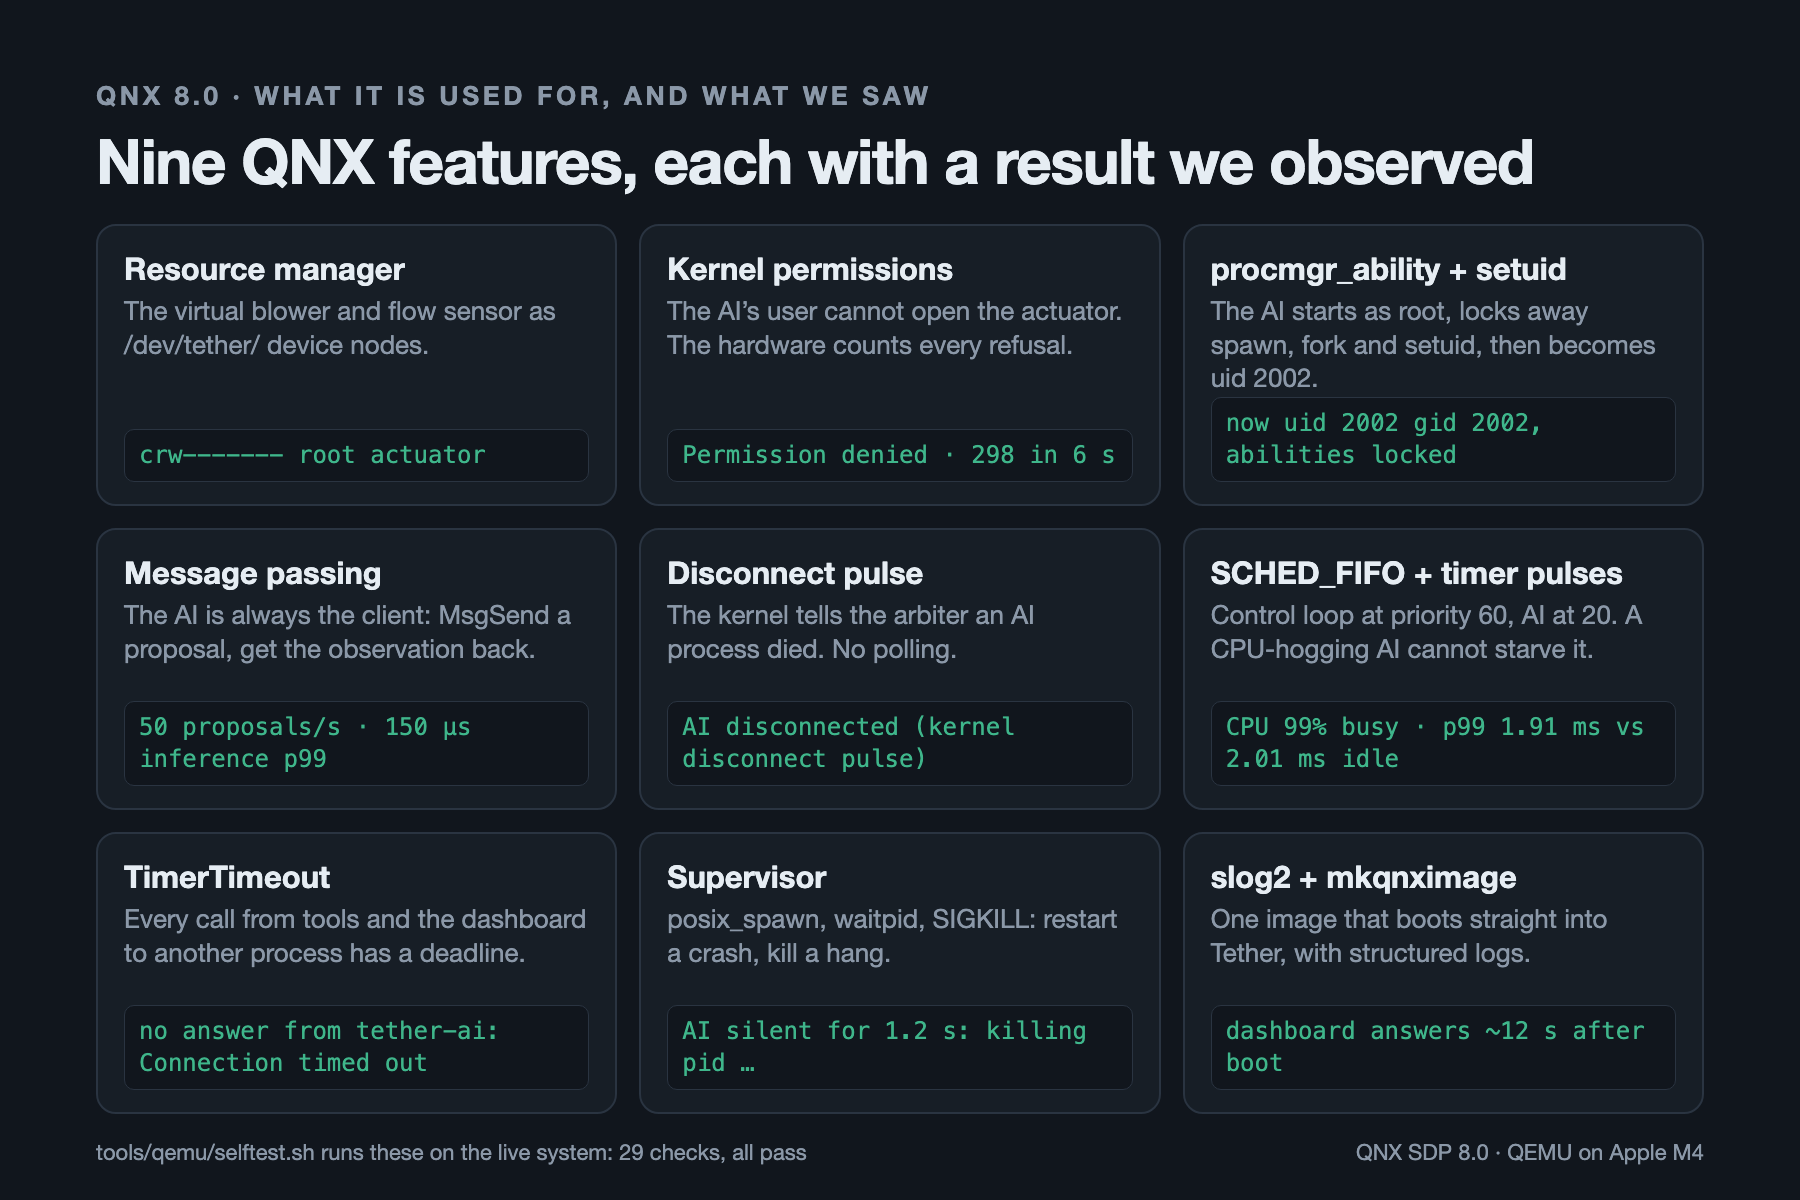
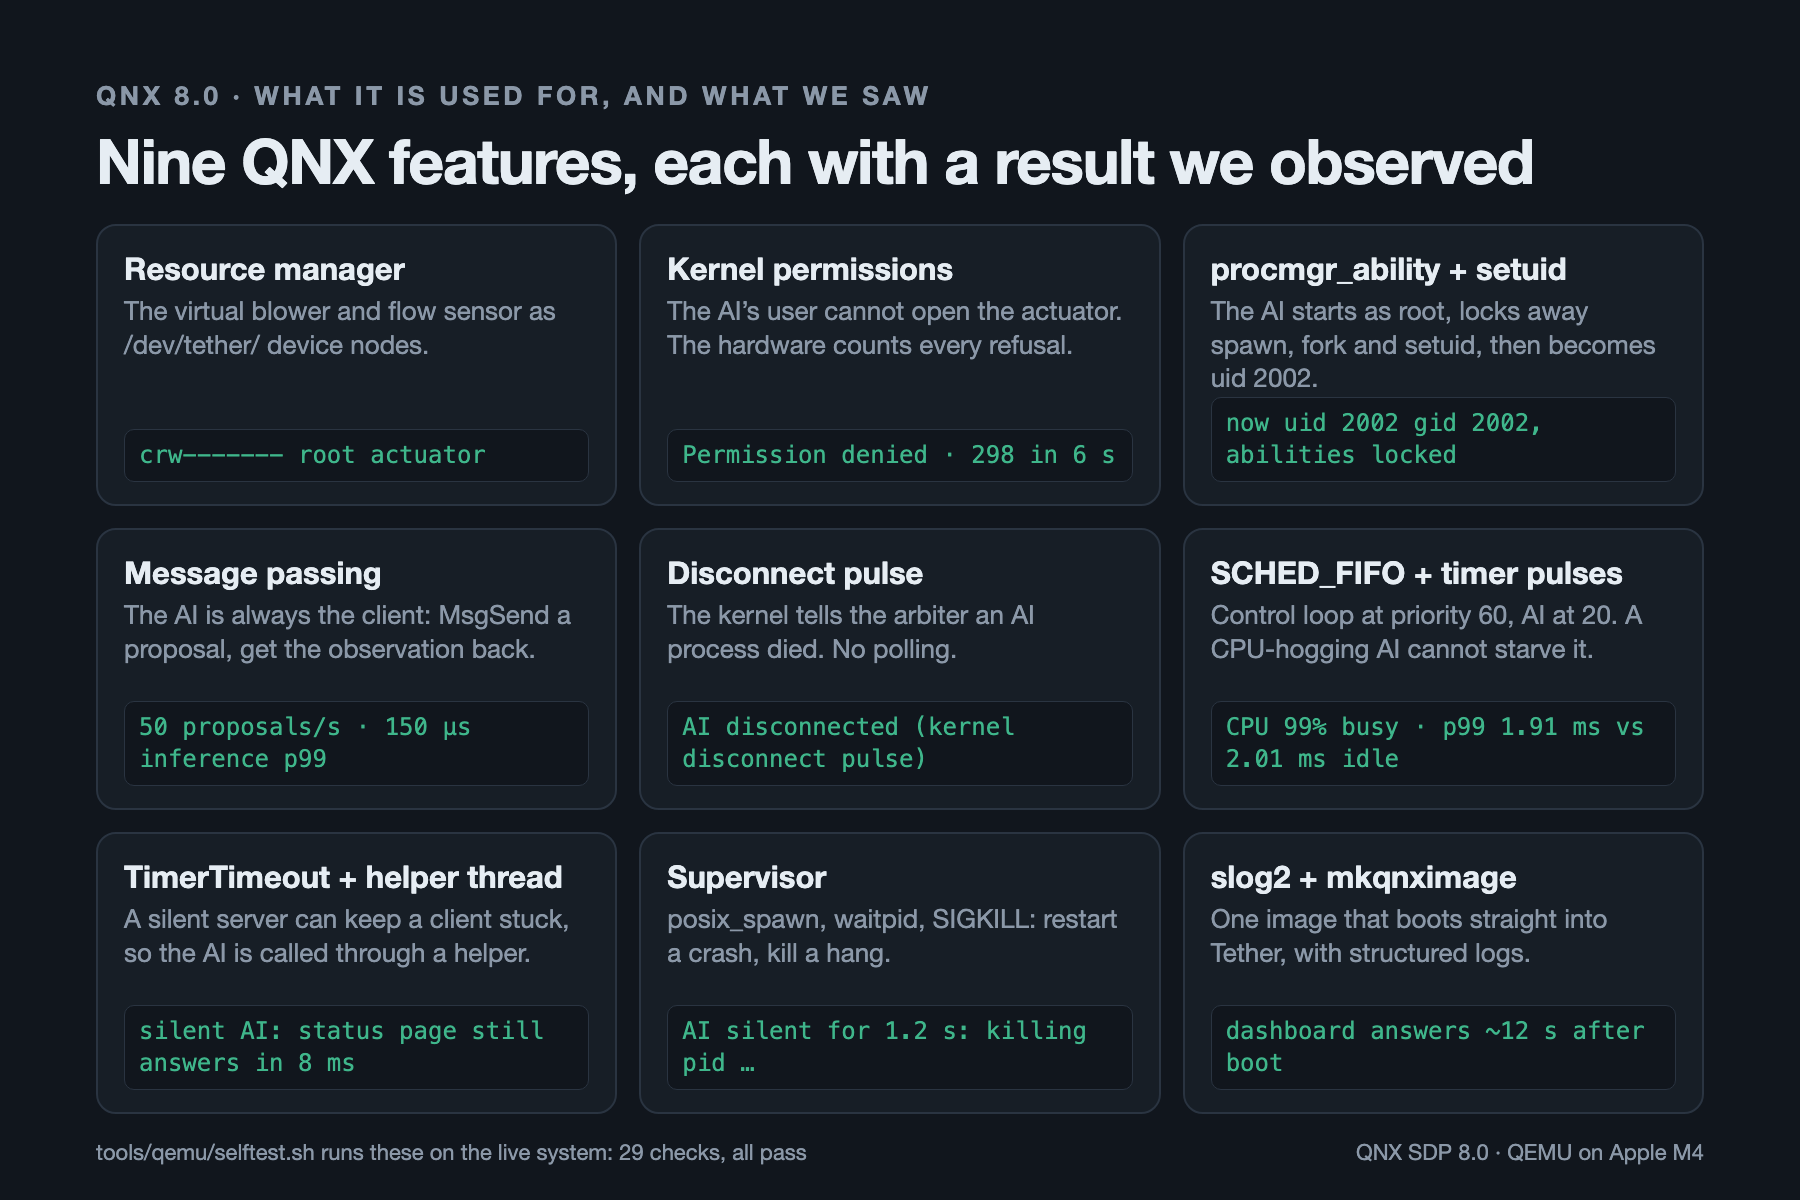
fix(bridge): call the AI through a helper thread so a silent AI cannot wedge the gateway
A TimerTimeout deadline cannot release a client that is reply-blocked on a channel
created with _NTO_CHF_UNBLOCK (every name_attach channel) unless the server answers.
The AI is the one server we cannot make answer: with its control channel receiving a
message and never replying, a single dashboard call stuck the single-threaded gateway
and every later request with it. Calls into the AI now go through one helper thread;
the caller gives up after 400 ms and later calls fail at once while the helper is
stuck. gateway-test.sh checks it with a server that never replies (call gives up in
0.4 s, status still answers in 4 ms, a second call fails in 2 ms).

README, architecture notes and the QNX evidence slide said every call had a deadline;
they now say what is and is not guaranteed.

Changed region(s): [[0.0622, 0.7092, 0.3111, 0.8017], [0.0622, 0.8325, 0.28, 0.8942]]

diff --git a/docs/devpost/src/04-qnx-evidence.html b/docs/devpost/src/04-qnx-evidence.html
@@ -21,7 +21,7 @@ const T = [
  ['Message passing', 'The AI is always the client: MsgSend a proposal, get the observation back.', '50 proposals/s · 150 µs inference p99'],
  ['Disconnect pulse', 'The kernel tells the arbiter an AI process died. No polling.', 'AI disconnected (kernel disconnect pulse)'],
  ['SCHED_FIFO + timer pulses', 'Control loop at priority 60, AI at 20. A CPU-hogging AI cannot starve it.', 'CPU 99% busy · p99 1.91 ms vs 2.01 ms idle'],
- ['TimerTimeout', 'Every call from tools and the dashboard to another process has a deadline.', 'no answer from tether-ai: Connection timed out'],
+ ['TimerTimeout + helper thread', 'A silent server can keep a client stuck, so the AI is called through a helper.', 'silent AI: status page still answers in 8 ms'],
  ['Supervisor', 'posix_spawn, waitpid, SIGKILL: restart a crash, kill a hang.', 'AI silent for 1.2 s: killing pid …'],
  ['slog2 + mkqnximage', 'One image that boots straight into Tether, with structured logs.', 'dashboard answers ~12 s after boot'],
 ];

diff --git a/qnx/bridge/tether-bridge.c b/qnx/bridge/tether-bridge.c
@@ -15,8 +15,12 @@
  *   POST /api/model?name=X    hot-swap the AI's model (models/X.tmlp)
  *   POST /api/reset           start a new latency window
  *
- * Every call that talks to another process has a deadline, so a hung AI can
- * slow one request down but never wedge the gateway. There is no
+ * Calls into the trusted processes (the arbiter) carry a TimerTimeout deadline.
+ * Calls into the AI go through one helper thread instead: a deadline cannot
+ * release a client that is reply-blocked on a server whose channel asked for
+ * unblock notifications (every name_attach and resource-manager channel does)
+ * unless that server answers, and the AI is the one server we cannot make
+ * answer. If it stalls, only the helper is stuck; the gateway keeps serving. There is no
  * authentication: this is a lab demo, reach it only through the forwarded
  * localhost port. POST needs the header "X-Tether: 1", which a web page on
  * another origin cannot add without a preflight we do not answer.
@@ -59,6 +63,121 @@ static long send_to(const char *name, const void *msg, size_t n, void *reply, si
     TimerTimeout(CLOCK_MONOTONIC, _NTO_TIMEOUT_SEND | _NTO_TIMEOUT_REPLY, NULL, &to, NULL);
     long r = MsgSend(coid, msg, n, reply, rn);
     name_close(coid);
+    return r;
+}
+
+/* ---- calls into the AI, through a helper thread ---------------------------- */
+
+#define AI_WAIT_NS (400 * TETHER_NS_PER_MS)
+#define AI_BUF 256
+
+static struct {
+    pthread_mutex_t mu;
+    pthread_cond_t wake, done;
+    int pending;    /* a request waits for the helper */
+    int busy;       /* the helper owns the job (it may be stuck inside MsgSend) */
+    int finished;   /* the helper completed it and the caller is still waiting */
+    int abandoned;  /* the caller gave up; the helper discards its answer */
+    char msg[AI_BUF], rep[AI_BUF];
+    size_t n, rn;
+    long result;
+    int err;
+} ai;
+
+static void *ai_helper(void *arg)
+{
+    (void)arg;
+    pthread_mutex_lock(&ai.mu);
+    for (;;) {
+        while (!ai.pending) pthread_cond_wait(&ai.wake, &ai.mu);
+        ai.pending = 0;
+        char msg[AI_BUF], rep[AI_BUF];
+        size_t n = ai.n, rn = ai.rn;
+        memcpy(msg, ai.msg, n);
+        pthread_mutex_unlock(&ai.mu);
+
+        /* No lock held: this may block for as long as the AI likes. */
+        long r = -1;
+        int e = ENOENT;
+        int coid = name_open(TETHER_AI_NAME, 0);
+        if (coid >= 0) {
+            uint64_t to = CALL_TIMEOUT_NS;
+            TimerTimeout(CLOCK_MONOTONIC, _NTO_TIMEOUT_SEND | _NTO_TIMEOUT_REPLY, NULL, &to, NULL);
+            r = MsgSend(coid, msg, n, rep, rn);
+            e = errno;
+            name_close(coid);
+        }
+
+        pthread_mutex_lock(&ai.mu);
+        if (ai.abandoned) {
+            ai.abandoned = 0;
+            ai.busy = 0;
+        } else {
+            if (r >= 0) memcpy(ai.rep, rep, rn);
+            ai.result = r;
+            ai.err = e;
+            ai.finished = 1;
+            pthread_cond_signal(&ai.done);
+        }
+    }
+    return NULL;
+}
+
+static void ai_init(void)
+{
+    pthread_condattr_t ca;
+    pthread_condattr_init(&ca);
+    pthread_condattr_setclock(&ca, CLOCK_MONOTONIC);
+    pthread_mutex_init(&ai.mu, NULL);
+    pthread_cond_init(&ai.wake, &ca);
+    pthread_cond_init(&ai.done, &ca);
+    pthread_t t;
+    pthread_create(&t, NULL, ai_helper, NULL);
+}
+
+/* Like send_to() for the AI. Returns the reply status, or -1 with errno:
+ * EBUSY if an earlier call is still stuck, ETIMEDOUT if this one is. */
+static long ai_call(const void *msg, size_t n, void *reply, size_t rn)
+{
+    if (n > AI_BUF || rn > AI_BUF) {
+        errno = EMSGSIZE;
+        return -1;
+    }
+    pthread_mutex_lock(&ai.mu);
+    if (ai.busy) {
+        pthread_mutex_unlock(&ai.mu);
+        errno = EBUSY;
+        return -1;
+    }
+    memcpy(ai.msg, msg, n);
+    ai.n = n;
+    ai.rn = rn;
+    ai.busy = 1;
+    ai.finished = 0;
+    ai.pending = 1;
+    pthread_cond_signal(&ai.wake);
+
+    struct timespec dl;
+    clock_gettime(CLOCK_MONOTONIC, &dl);
+    int64_t t = (int64_t)dl.tv_nsec + AI_WAIT_NS;
+    dl.tv_sec += t / TETHER_NS_PER_S;
+    dl.tv_nsec = t % TETHER_NS_PER_S;
+    while (!ai.finished) {
+        if (pthread_cond_timedwait(&ai.done, &ai.mu, &dl) == ETIMEDOUT) break;
+    }
+    long r;
+    if (ai.finished) {
+        r = ai.result;
+        errno = ai.err;
+        if (r >= 0) memcpy(reply, ai.rep, rn);
+        ai.busy = 0;
+        ai.finished = 0;
+    } else {
+        ai.abandoned = 1; /* the helper stays busy until the AI answers or dies */
+        r = -1;
+        errno = ETIMEDOUT;
+    }
+    pthread_mutex_unlock(&ai.mu);
     return r;
 }
 
@@ -172,7 +291,7 @@ static void route_status(int fd)
     static char body[20000], arb[8192], models[1024];
     static tether_status st;
     static int64_t ai_checked_ns;
-    static tether_ai_info ai;
+    static tether_ai_info ai_info;
     static int have_ai;
     tether_msg_hdr h = { TETHER_MSG_STATUS, 0, 0 };
     if (send_to(TETHER_ARBITER_NAME, &h, sizeof(h), &st, sizeof(st)) != (long)sizeof(st) ||
@@ -183,7 +302,7 @@ static void route_status(int fd)
     int64_t now = tether_now_ns();
     if (now - ai_checked_ns > 1 * TETHER_NS_PER_S) { /* AI info once a second at most */
         tether_msg_hdr ih = { TETHER_MSG_AI_INFO, 0, 0 };
-        have_ai = send_to(TETHER_AI_NAME, &ih, sizeof(ih), &ai, sizeof(ai)) == (long)sizeof(ai);
+        have_ai = ai_call(&ih, sizeof(ih), &ai_info, sizeof(ai_info)) == (long)sizeof(ai_info);
         ai_checked_ns = now;
     }
     tether_hw_status hw;
@@ -200,9 +319,9 @@ static void route_status(int fd)
         n += snprintf(body + n, sizeof(body) - (size_t)n,
                       "\"ai\":{\"model_id\":%u,\"fault\":\"%s\",\"proposals\":%llu,\"bypass_attempts\":%llu,"
                       "\"bypass_denied\":%llu,\"infer_p99_us\":%lld,\"infer_max_us\":%lld,\"pid\":%d,\"uid\":%d},",
-                      ai.model_id, tether_fault_name((tether_fault)ai.fault), (unsigned long long)ai.proposals,
-                      (unsigned long long)ai.bypass_attempts, (unsigned long long)ai.bypass_denied,
-                      (long long)(ai.infer_p99_ns / 1000), (long long)(ai.infer_max_ns / 1000), ai.pid, ai.uid);
+                      ai_info.model_id, tether_fault_name((tether_fault)ai_info.fault), (unsigned long long)ai_info.proposals,
+                      (unsigned long long)ai_info.bypass_attempts, (unsigned long long)ai_info.bypass_denied,
+                      (long long)(ai_info.infer_p99_ns / 1000), (long long)(ai_info.infer_max_ns / 1000), ai_info.pid, ai_info.uid);
     n += snprintf(body + n, sizeof(body) - (size_t)n, "\"control_hz\":%.0f,\"models\":%s,\"version\":\"%s\"}",
                   g_cfg.timing.control_hz, models, TETHER_VERSION);
     respond_json(fd, 200, body);
@@ -245,7 +364,7 @@ static void route_post(int fd, const char *path, const char *query)
         }
         tether_msg_fault m = { { TETHER_MSG_FAULT, 0, 0 }, (int32_t)f, 0 };
         tether_fault_reply rep;
-        long r = send_to(TETHER_AI_NAME, &m, sizeof(m), &rep, sizeof(rep));
+        long r = ai_call(&m, sizeof(m), &rep, sizeof(rep));
         snprintf(out, sizeof(out), "{\"ok\":%s,\"fault\":\"%s\"%s}", r == (long)sizeof(rep) && !rep.status ? "true" : "false",
                  tether_fault_name(f), r == (long)sizeof(rep) ? "" : ",\"error\":\"the AI process did not answer\"");
         respond_json(fd, 200, out);
@@ -285,7 +404,7 @@ static void route_post(int fd, const char *path, const char *query)
         m.hdr.type = TETHER_MSG_MODEL;
         snprintf(m.path, sizeof(m.path), "%s/%s.tmlp", g_models, v);
         tether_model_reply rep;
-        long r = send_to(TETHER_AI_NAME, &m, sizeof(m), &rep, sizeof(rep));
+        long r = ai_call(&m, sizeof(m), &rep, sizeof(rep));
         if (r != (long)sizeof(rep)) {
             respond_json(fd, 200, "{\"ok\":false,\"error\":\"the AI process did not answer\"}");
         } else {
@@ -378,6 +497,7 @@ int main(int argc, char **argv)
         qlog(TAG, "cannot listen on port %d: %s", port, strerror(errno));
         return 1;
     }
+    ai_init(); /* the helper thread is created while we may still do so */
     if (!keep_root) drop_privileges();
     q_set_fifo(TETHER_PRIO_BRIDGE);
     qlog(TAG, "listening on port %d", port);

diff --git a/README.md b/README.md
@@ -62,7 +62,7 @@ the live system inside the QNX image and prints PASS or FAIL.
 | Message passing (`MsgSend/Receive/Reply`, `name_attach`) | AI → arbiter proposals; dashboard → arbiter and AI | [`qnx/arbiter/tether-arbiter.c`](qnx/arbiter/tether-arbiter.c) | closed loop at 250 Hz |
 | Disconnect pulse (`_PULSE_CODE_DISCONNECT`) | The arbiter learns an AI process died without polling it | `ipc_loop()` in the arbiter | log: `AI disconnected (kernel disconnect pulse)` |
 | Timer pulses, `SCHED_FIFO`, priority-inheriting mutex | A control loop that keeps its timing while the AI saturates every CPU | `control_thread()`, [`qnx/hw/tether-hw.c`](qnx/hw/tether-hw.c) | `top` during the `hog` fault: 99% CPU busy, two AI threads at ~48% each, arbiter still running; latency table below |
-| `TimerTimeout` | Every call from the dashboard, supervisor and tools to another process has a deadline | [`qnx/bridge`](qnx/bridge/tether-bridge.c), [`qnx/tetherd`](qnx/tetherd/tetherd.c) | with the CPUs saturated, `tether-ctl` printed `no answer from tether-ai: Connection timed out` instead of hanging |
+| `TimerTimeout` + a helper thread | Calls into the arbiter carry a deadline. Calls into the untrusted AI go through a helper thread, because a deadline cannot release a client that is reply-blocked on a channel with `_NTO_CHF_UNBLOCK` (every `name_attach` channel) unless the server answers | [`qnx/bridge`](qnx/bridge/tether-bridge.c), [`qnx/tetherd`](qnx/tetherd/tetherd.c) | with the AI's control channel made silent, the first call gave up after 0.4 s, the status page still answered in 8 ms, and later calls failed in ~2 ms (`tools/qemu/gateway-test.sh`) |
 | `posix_spawn`, `waitpid`, `SIGKILL` | A supervisor restarts a crashed AI and turns a hung one into a crash | [`qnx/tetherd/tetherd.c`](qnx/tetherd/tetherd.c) | log: `AI silent for 1.2 s: killing pid …`, then a restart |
 | `slog2` | Structured logs of every switch | [`qnx/common/qcommon.c`](qnx/common/qcommon.c) | `slog2info` shows `tether` buffer |
 | `mkqnximage` + QEMU | One image that boots straight into Tether | [`tools/qemu`](tools/qemu), [`qnx/image`](qnx/image) | dashboard answers about 12 s after boot |

diff --git a/docs/architecture.md b/docs/architecture.md
@@ -69,6 +69,19 @@ returns the status given to `MsgReply()`.
 
 The wire format is in [`core/include/tether/proto.h`](../core/include/tether/proto.h).
 
+### Calls into the AI go through a helper thread
+`TimerTimeout()` puts a deadline on a blocking call, but it cannot release a client that is
+*reply-blocked* on a server whose channel was created with `_NTO_CHF_UNBLOCK`: the kernel sends the
+server an unblock pulse and waits for the server to answer it. `name_attach()` and resource managers
+always create their channels that way. So a server that receives a message and then goes silent keeps
+its client stuck, whatever deadline the client set.
+
+For the trusted arbiter that is acceptable. For the AI it is not, because the dashboard calls the AI's
+control channel and the AI is the one server we cannot make answer. The gateway therefore sends every
+call to the AI through one helper thread, and the caller gives up after 400 ms while the helper stays
+stuck. Later calls fail at once until the helper is free. `tools/qemu/gateway-test.sh` checks this with
+a server that never replies.
+
 ### Threads and priorities
 
 | Priority | Thread | Why there |
